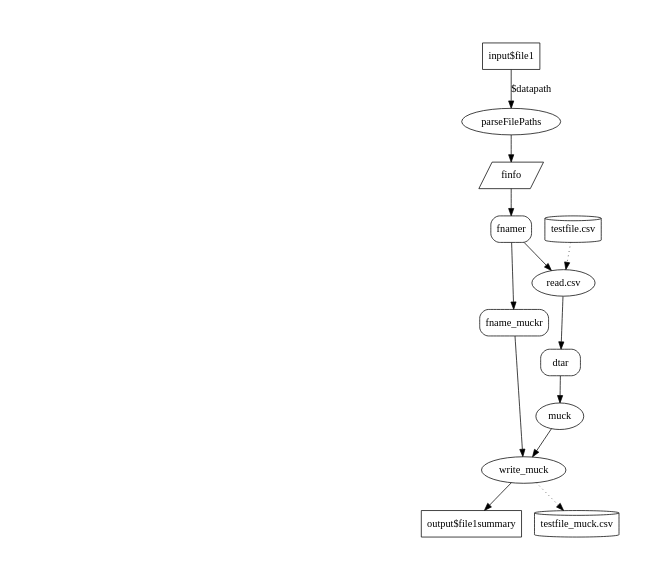
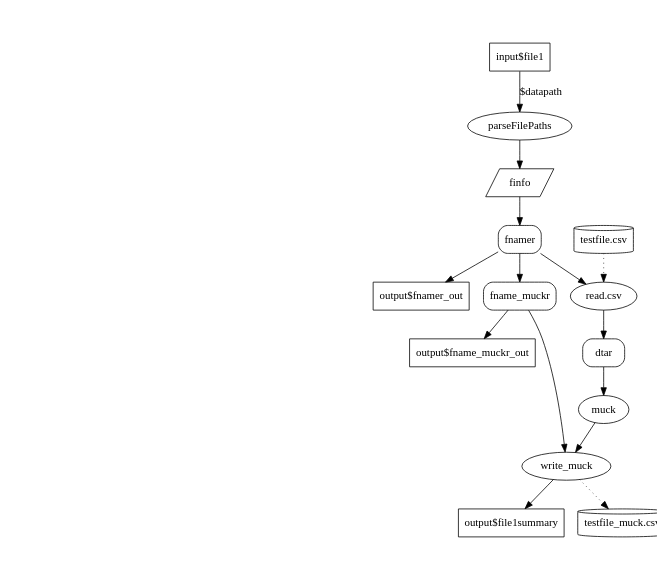
fix test2.csv newline at end; add display of filenames; typo in readme

Changed region(s): [[0.5784, 0.0621, 0.9741, 0.8379], [0.6393, 0.869, 1.0, 0.931]]

diff --git a/README.md b/README.md
@@ -48,12 +48,12 @@ file system and a data frame is returned.
 
 The `fname_muckr` function automatically derives a filename to write the
 file into based on the name of the file from which data was read. This
-is process optimization that simpifies the app. It is also possible to
-specify the name of the output file as a `textInput` that doesn’t get
-used until the input file name is changed, but this leads to files being
+is a process optimization that simplifies the app. It is also possible
+to specify the name of the output file as a `textInput` that doesn’t get
+used until the input file name is changed, but this can to files being
 written when you don’t want them to be written. If you really want to
-setup this kind of gated workflow, then read about `observeEvent`
-(e.g. [Mastering
+setup a gated workflow that doesn’t write until you push a button, then
+read about `observeEvent` (e.g. [Mastering
 Shiny](https://mastering-shiny.org/reactivity-objects.html#observers-details)),
 but keep in mind that such magic can easily turn your logic into
 spaghetti unless used sparingly.
